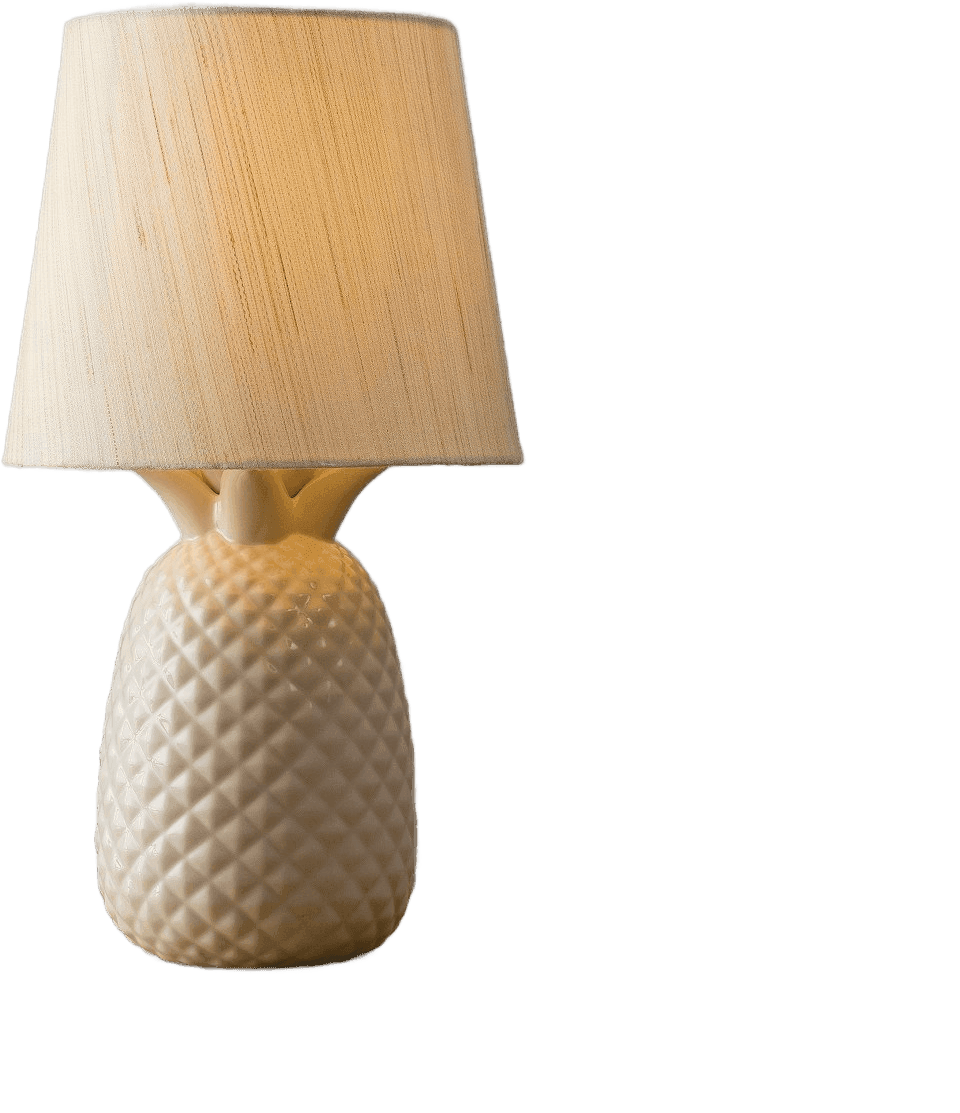
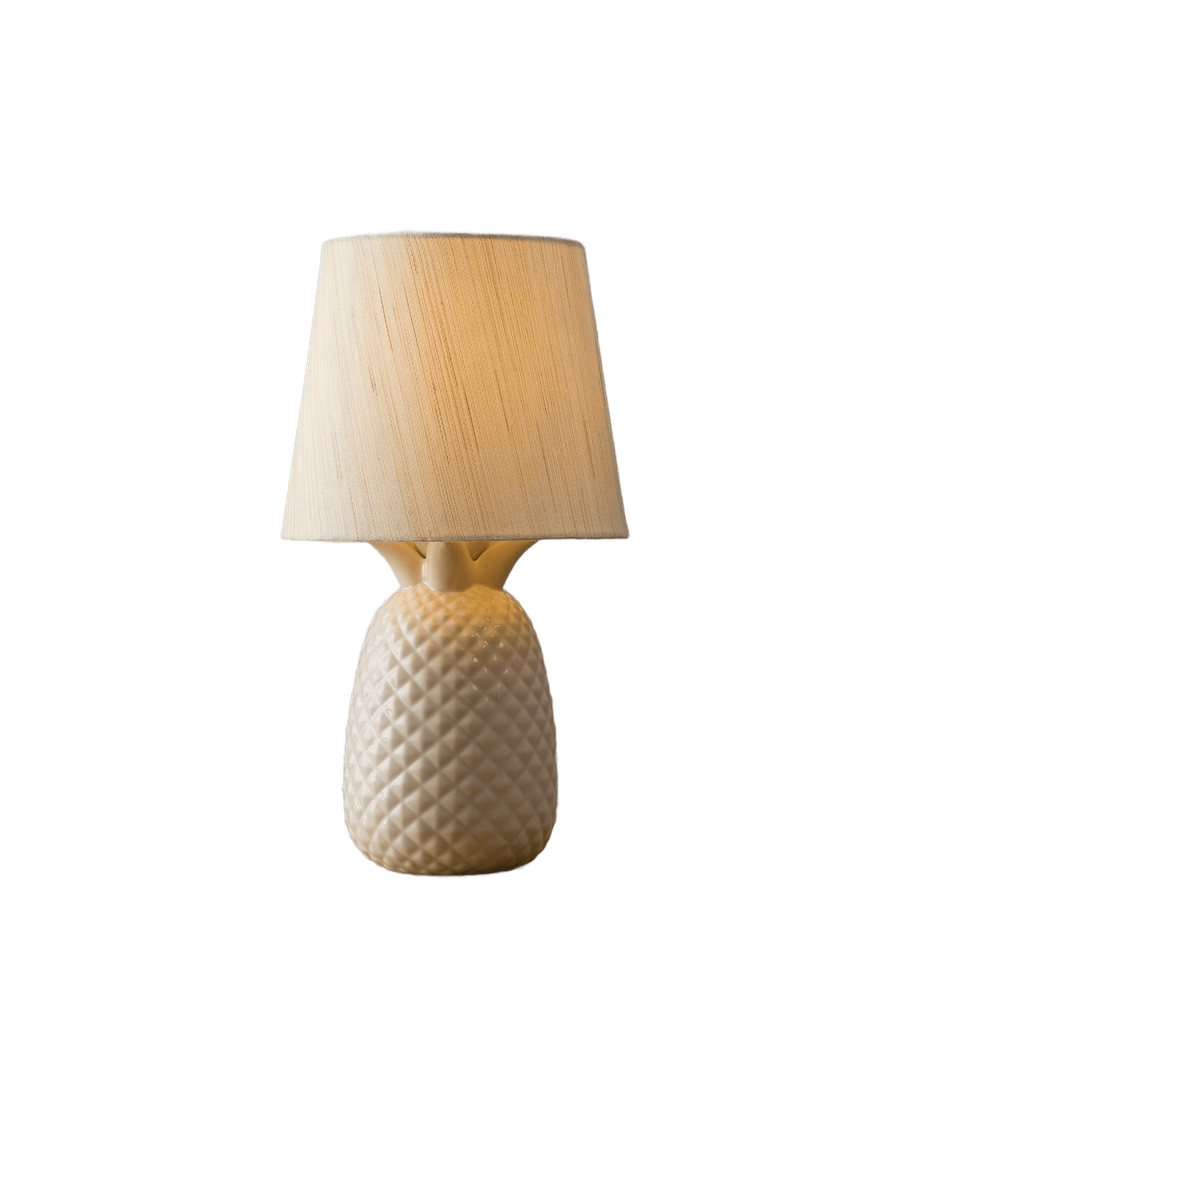
Calm the shop down and fill it with better pieces
Eight articles instead of four, and they sit quietly now rather than
filling their frames.

The size was not a styling problem. Every cut-out came back trimmed to
its own subject, so a tightly shot vase filled its box while a loosely
shot one sat small — same frame, wildly different weight. Each object is
now placed on the same square canvas at the same fraction of it, so they
carry equal weight by construction rather than by luck.

The ornate tilted vase is gone, along with the pieces that did not earn
their place: broken marble that read as rubble, a crusty bottle, a
ghost that the model could not separate from its background.

No cushion either. Textiles come from interior shots, not product
shots, and every attempt kept the stool or the sofa with it — worth
knowing before anyone photographs the real range.

diff --git a/app/content/products.ts b/app/content/products.ts
@@ -3,14 +3,10 @@ import type { Language } from "./i18n";
 /*
  * Het productmodel van de webshop.
  *
- * De gegevens staan voorlopig in dit bestand, zodat de winkelkant gebouwd en
- * bekeken kan worden voordat er een motor onder zit. Zodra die er is (Medusa,
- * Shopify of iets anders) verdwijnt deze lijst en komen de producten daarvandaan;
- * de vorm hieronder is bewust die van elke commerce-API, zodat alleen de bron
- * verandert en de pagina's niet.
- *
- * Prijzen in centen, niet in euro's: rekenen met kommagetallen levert vroeg of
- * laat een cent verschil op in een totaal.
+ * De gegevens komen uit de database; wat hieronder staat is de vorm plus de
+ * beginvulling waarmee de collectie gevuld is. Prijzen in centen, niet in
+ * euro's: rekenen met kommagetallen levert vroeg of laat een cent verschil op
+ * in een totaal.
  */
 
 export type ProductCategory = "textiel" | "objecten" | "verlichting" | "kunst";
@@ -44,130 +40,254 @@ export const categoryLabels: Record<ProductCategory, { nl: string; en: string }>
 };
 
 /*
- * Voorbeeldproducten om de vormgeving op te kunnen beoordelen. De beelden zijn
- * interieurfoto's die we al hadden — er is nog geen productfotografie, en dat
- * is het eerste wat een echte webshop nodig heeft.
+ * De beginvulling van de collectie. De beelden zijn uitgeknipte productfoto's
+ * in public/images/shop — placeholders tot er fotografie is van wat Bas
+ * werkelijk verkoopt.
  */
 export const products: Product[] = [
   {
-    slug: "boucle-kussen-zand",
-    category: "textiel",
-    priceCents: 8900,
-    currency: "EUR",
-    stock: 12,
-    images: ["/images/design/detail-residence-05.jpg"],
-    nl: {
-      name: "Bouclé kussen — zand",
-      tagline: "Zacht volume in een warme, neutrale tint.",
-      description:
-        "Een royaal kussen van dicht geweven bouclé, gevuld met donsveren zodat het zijn vorm houdt zonder stijf te staan. De zandtint sluit aan op de natuurlijke materialen waar we het liefst mee werken.",
-      specs: [
-        { label: "Materiaal", value: "Bouclé, donsvulling" },
-        { label: "Afmeting", value: "50 × 50 cm" },
-        { label: "Onderhoud", value: "Reiniging door een specialist" },
-      ],
-    },
-    en: {
-      name: "Bouclé cushion — sand",
-      tagline: "Soft volume in a warm, neutral tone.",
-      description:
-        "A generous cushion in densely woven bouclé, filled with down so it keeps its shape without standing stiff. The sand tone sits with the natural materials we most like to work in.",
-      specs: [
-        { label: "Material", value: "Bouclé, down filling" },
-        { label: "Size", value: "50 × 50 cm" },
-        { label: "Care", value: "Specialist cleaning" },
-      ],
-    },
-  },
-
-  {
-    slug: "travertijn-schaal",
+    slug: "ronde-vaas-zand",
     category: "objecten",
     priceCents: 16500,
     currency: "EUR",
-    stock: 5,
-    images: ["/images/design/detail-residence-03.jpg"],
+    stock: 6,
+    images: ["/images/shop/donutvaas.png"],
     nl: {
-      name: "Travertijnen schaal",
-      tagline: "Uit één blok gesneden, met de nerf zichtbaar gelaten.",
+      name: "Ronde vaas — zand",
+      tagline: "Eén gesloten vorm, gedraaid uit de hand.",
       description:
-        "Een ondiepe schaal, gesneden uit één blok travertijn en alleen gepolijst waar de hand hem raakt. Elk exemplaar tekent anders, omdat de nerf van de steen bepaalt hoe hij valt.",
+        "Een vaas die eerder als sculptuur leest dan als bloemenhouder. De ongeglazuurde buitenkant houdt het licht vast in plaats van het terug te kaatsen, waardoor de vorm zacht blijft in een ruimte.",
       specs: [
-        { label: "Materiaal", value: "Travertijn" },
-        { label: "Afmeting", value: "Ø 32 cm, h 7 cm" },
-        { label: "Herkomst", value: "Italië" },
+        { label: "Materiaal", value: "Ongeglazuurd keramiek" },
+        { label: "Afmeting", value: "h 30 cm, b 28 cm" },
+        { label: "Onderhoud", value: "Droog afnemen" },
       ],
     },
     en: {
-      name: "Travertine bowl",
-      tagline: "Cut from a single block, its grain left visible.",
+      name: "Round vase — sand",
+      tagline: "A single closed form, turned by hand.",
       description:
-        "A shallow bowl, cut from one block of travertine and polished only where the hand meets it. Every piece reads differently, because the grain of the stone decides how it falls.",
+        "A vase that reads as sculpture more than as a holder for flowers. The unglazed surface holds the light rather than throwing it back, which keeps the form soft in a room.",
       specs: [
-        { label: "Material", value: "Travertine" },
-        { label: "Size", value: "Ø 32 cm, h 7 cm" },
-        { label: "Origin", value: "Italy" },
+        { label: "Material", value: "Unglazed ceramic" },
+        { label: "Size", value: "h 30 cm, w 28 cm" },
+        { label: "Care", value: "Wipe dry" },
       ],
     },
   },
 
   {
-    slug: "bronzen-tafellamp",
+    slug: "tafellamp-linnen",
     category: "verlichting",
     priceCents: 48000,
     currency: "EUR",
     stock: 2,
-    images: ["/images/design/detail-residence-06.jpg"],
+    images: ["/images/shop/lamp.png"],
     nl: {
-      name: "Bronzen tafellamp",
-      tagline: "Warm, laag licht met een voet die patina opbouwt.",
+      name: "Tafellamp met linnen kap",
+      tagline: "Warm, laag licht met een gestructureerde voet.",
       description:
-        "Een tafellamp met een massief bronzen voet en een linnen kap die het licht zacht maakt. Het brons laat zich niet lakken, dus hij kleurt mee met de jaren.",
+        "De linnen kap maakt het licht zacht en warm — geen lamp om bij te lezen, maar om een hoek mee te laten gloeien. De voet heeft een fijn reliëf dat bij daglicht meespeelt.",
       specs: [
-        { label: "Materiaal", value: "Brons, linnen kap" },
-        { label: "Afmeting", value: "h 46 cm" },
+        { label: "Materiaal", value: "Keramiek, linnen kap" },
+        { label: "Afmeting", value: "h 42 cm" },
         { label: "Fitting", value: "E27, dimbaar" },
       ],
     },
     en: {
-      name: "Bronze table lamp",
-      tagline: "Warm, low light on a base that builds patina.",
+      name: "Table lamp with linen shade",
+      tagline: "Warm, low light on a textured base.",
       description:
-        "A table lamp on a solid bronze base with a linen shade that softens the light. The bronze is left unlacquered, so it colours with the years.",
+        "The linen shade softens the light and warms it — not a lamp to read by, but one to let a corner glow. The base carries a fine relief that catches the daylight.",
       specs: [
-        { label: "Material", value: "Bronze, linen shade" },
-        { label: "Size", value: "h 46 cm" },
+        { label: "Material", value: "Ceramic, linen shade" },
+        { label: "Size", value: "h 42 cm" },
         { label: "Fitting", value: "E27, dimmable" },
       ],
     },
   },
 
   {
-    slug: "studie-in-zand",
+    slug: "bolvaas-steengrijs",
+    category: "objecten",
+    priceCents: 21500,
+    currency: "EUR",
+    stock: 4,
+    images: ["/images/shop/vaas-grijs.png"],
+    nl: {
+      name: "Bolvaas — steengrijs",
+      tagline: "Zware vorm, smalle opening, rustige tint.",
+      description:
+        "Een bolle vaas met een opvallend kleine hals, zodat één tak al genoeg is. Het steengrijs staat goed tegen warme materialen — eikenhout, brons, wol.",
+      specs: [
+        { label: "Materiaal", value: "Gestookt steengoed" },
+        { label: "Afmeting", value: "h 26 cm, Ø 28 cm" },
+        { label: "Waterdicht", value: "Ja" },
+      ],
+    },
+    en: {
+      name: "Globe vase — stone grey",
+      tagline: "Heavy form, narrow mouth, quiet tone.",
+      description:
+        "A rounded vase with a strikingly small neck, so a single branch is enough. The stone grey sits well against warm materials — oak, bronze, wool.",
+      specs: [
+        { label: "Material", value: "Fired stoneware" },
+        { label: "Size", value: "h 26 cm, Ø 28 cm" },
+        { label: "Watertight", value: "Yes" },
+      ],
+    },
+  },
+
+  {
+    slug: "ovale-schaal-albast",
+    category: "objecten",
+    priceCents: 27500,
+    currency: "EUR",
+    stock: 3,
+    images: ["/images/shop/object-wit.png"],
+    nl: {
+      name: "Ovale schaal — albast",
+      tagline: "Lage, langgerekte vorm die licht doorlaat.",
+      description:
+        "Uit één blok gesneden en zo dun geslepen dat de steen aan de randen oplicht. Ondiep genoeg om leeg te blijven staan zonder dat het leeg oogt.",
+      specs: [
+        { label: "Materiaal", value: "Albast" },
+        { label: "Afmeting", value: "l 38 cm, b 18 cm" },
+        { label: "Herkomst", value: "Italië" },
+      ],
+    },
+    en: {
+      name: "Oval bowl — alabaster",
+      tagline: "A low, drawn-out form that lets light through.",
+      description:
+        "Cut from a single block and ground thin enough that the stone lights up at its edges. Shallow enough to stand empty without looking empty.",
+      specs: [
+        { label: "Material", value: "Alabaster" },
+        { label: "Size", value: "l 38 cm, w 18 cm" },
+        { label: "Origin", value: "Italy" },
+      ],
+    },
+  },
+
+  {
+    slug: "schalen-set-keramiek",
+    category: "objecten",
+    priceCents: 14500,
+    currency: "EUR",
+    stock: 8,
+    images: ["/images/shop/schaal-wit.png"],
+    nl: {
+      name: "Schalenset — keramiek",
+      tagline: "Drie maten, dezelfde hand.",
+      description:
+        "Een grote schaal met twee kleintjes, met het spikkelige glazuur dat bij het stoken ontstaat. Bedoeld om te gebruiken, niet om weg te zetten.",
+      specs: [
+        { label: "Materiaal", value: "Gespikkeld keramiek" },
+        { label: "Afmeting", value: "Ø 24, 12 en 10 cm" },
+        { label: "Onderhoud", value: "Vaatwasserbestendig" },
+      ],
+    },
+    en: {
+      name: "Bowl set — ceramic",
+      tagline: "Three sizes, one hand.",
+      description:
+        "A large bowl with two small ones, carrying the speckled glaze that comes out of the firing. Meant to be used, not put away.",
+      specs: [
+        { label: "Material", value: "Speckled ceramic" },
+        { label: "Size", value: "Ø 24, 12 and 10 cm" },
+        { label: "Care", value: "Dishwasher safe" },
+      ],
+    },
+  },
+
+  {
+    slug: "vaasjes-trio",
+    category: "objecten",
+    priceCents: 9500,
+    currency: "EUR",
+    stock: 10,
+    images: ["/images/shop/vazen-drie.png"],
+    nl: {
+      name: "Vaasjes — trio",
+      tagline: "Klein genoeg om op een boekenplank te staan.",
+      description:
+        "Drie vaasjes in dezelfde vorm maar net verschillend van maat. Samen op een rij, of verspreid door een ruimte als terugkerend accent.",
+      specs: [
+        { label: "Materiaal", value: "Mat geglazuurd porselein" },
+        { label: "Afmeting", value: "h 14, 12 en 11 cm" },
+        { label: "Levering", value: "Als set van drie" },
+      ],
+    },
+    en: {
+      name: "Small vases — trio",
+      tagline: "Small enough to live on a bookshelf.",
+      description:
+        "Three vases in the same shape but slightly different in size. Lined up together, or spread through a room as a returning accent.",
+      specs: [
+        { label: "Material", value: "Matt glazed porcelain" },
+        { label: "Size", value: "h 14, 12 and 11 cm" },
+        { label: "Delivery", value: "As a set of three" },
+      ],
+    },
+  },
+
+  {
+    slug: "sokkel-travertijn",
     category: "kunst",
-    priceCents: 32500,
+    priceCents: 34500,
+    currency: "EUR",
+    stock: 2,
+    images: ["/images/shop/schaal-houder.png"],
+    nl: {
+      name: "Sokkel in travertijn",
+      tagline: "Een voetstuk dat zelf het object is.",
+      description:
+        "Een zuil uit travertijn met een ondiepe kom in het bovenvlak. Bedoeld om iets kleins op te laten staan, maar hij houdt zich ook alleen staande prima.",
+      specs: [
+        { label: "Materiaal", value: "Travertijn" },
+        { label: "Afmeting", value: "h 32 cm, Ø 12 cm" },
+        { label: "Gewicht", value: "Circa 6 kg" },
+      ],
+    },
+    en: {
+      name: "Travertine plinth",
+      tagline: "A pedestal that is the object itself.",
+      description:
+        "A travertine column with a shallow dish set into its top. Meant to hold something small, though it holds its own standing alone.",
+      specs: [
+        { label: "Material", value: "Travertine" },
+        { label: "Size", value: "h 32 cm, Ø 12 cm" },
+        { label: "Weight", value: "Around 6 kg" },
+      ],
+    },
+  },
+
+  {
+    slug: "wandobject-gevlochten",
+    category: "kunst",
+    priceCents: 39500,
     currency: "EUR",
     stock: 1,
-    images: ["/images/design/detail-residence-04.jpg"],
+    images: ["/images/shop/object-rond.png"],
     nl: {
-      name: "Studie in zand",
-      tagline: "Pigment op linnen, in een eiken lijst.",
+      name: "Wandobject — gevlochten",
+      tagline: "Een rond reliëf dat met het licht meebeweegt.",
       description:
-        "Een ingetogen werk in gebroken tinten, met de hand opgebracht in dunne lagen pigment. Geleverd in een massief eiken lijst, klaar om te hangen.",
+        "Honderden kleine vormen die vanuit het midden naar buiten draaien. Het reliëf vangt schaduw, dus het object verandert door de dag heen.",
       specs: [
-        { label: "Techniek", value: "Pigment op linnen" },
-        { label: "Afmeting", value: "80 × 100 cm" },
+        { label: "Materiaal", value: "Keramiek op paneel" },
+        { label: "Afmeting", value: "Ø 44 cm" },
         { label: "Oplage", value: "Uniek werk" },
       ],
     },
     en: {
-      name: "Study in sand",
-      tagline: "Pigment on linen, in an oak frame.",
+      name: "Wall piece — woven",
+      tagline: "A round relief that moves with the light.",
       description:
-        "A restrained work in broken tones, laid on by hand in thin layers of pigment. Delivered in a solid oak frame, ready to hang.",
+        "Hundreds of small forms turning outward from the centre. The relief catches shadow, so the piece changes through the day.",
       specs: [
-        { label: "Technique", value: "Pigment on linen" },
-        { label: "Size", value: "80 × 100 cm" },
+        { label: "Material", value: "Ceramic on panel" },
+        { label: "Size", value: "Ø 44 cm" },
         { label: "Edition", value: "Unique work" },
       ],
     },
